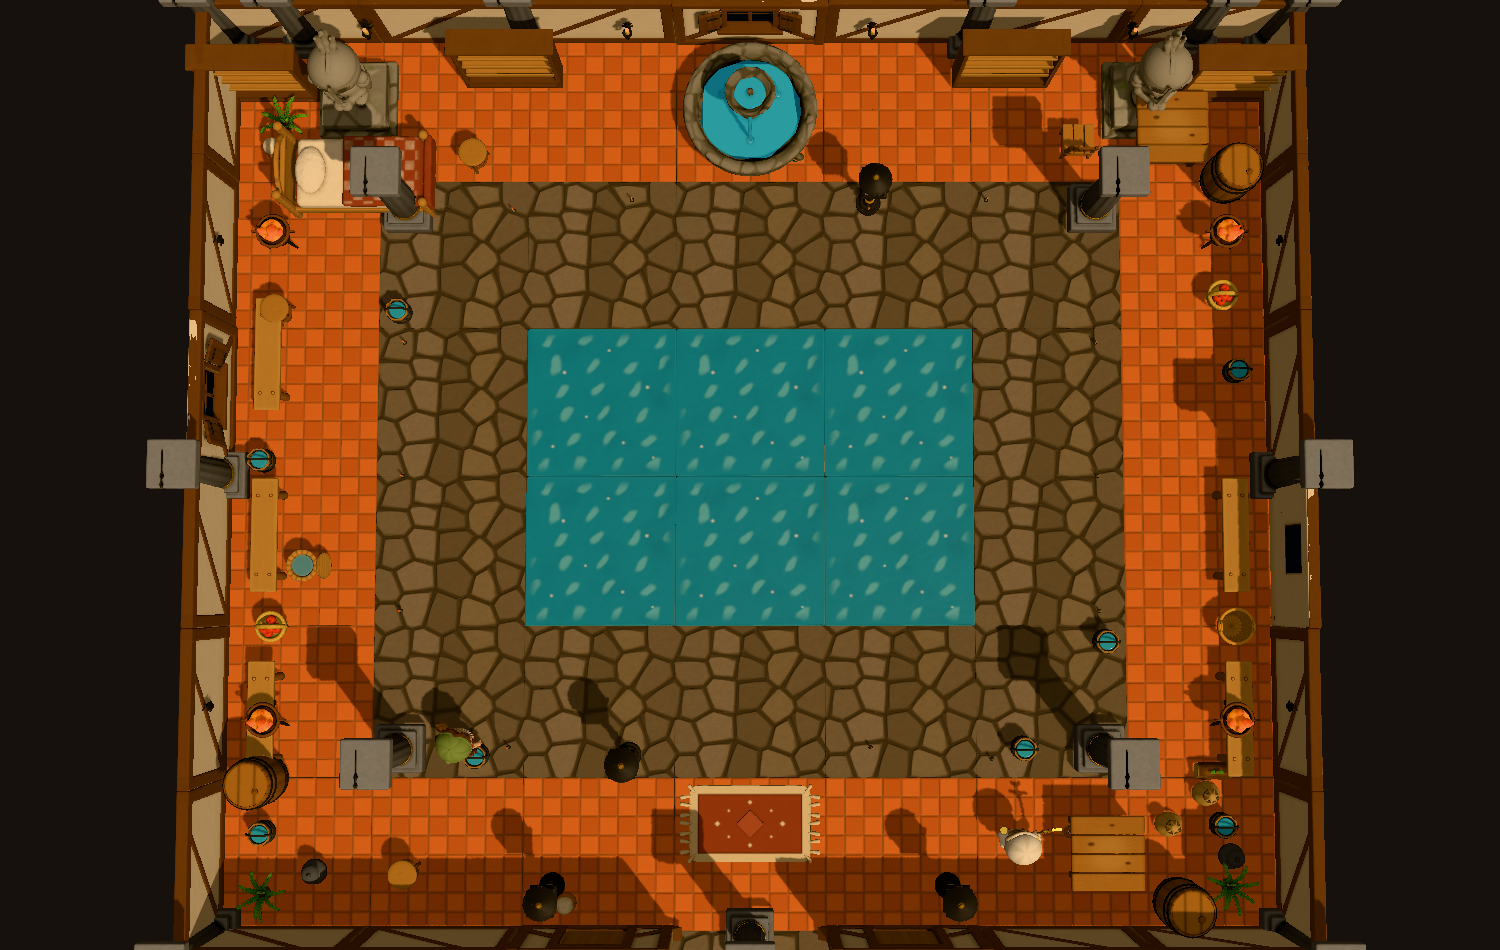
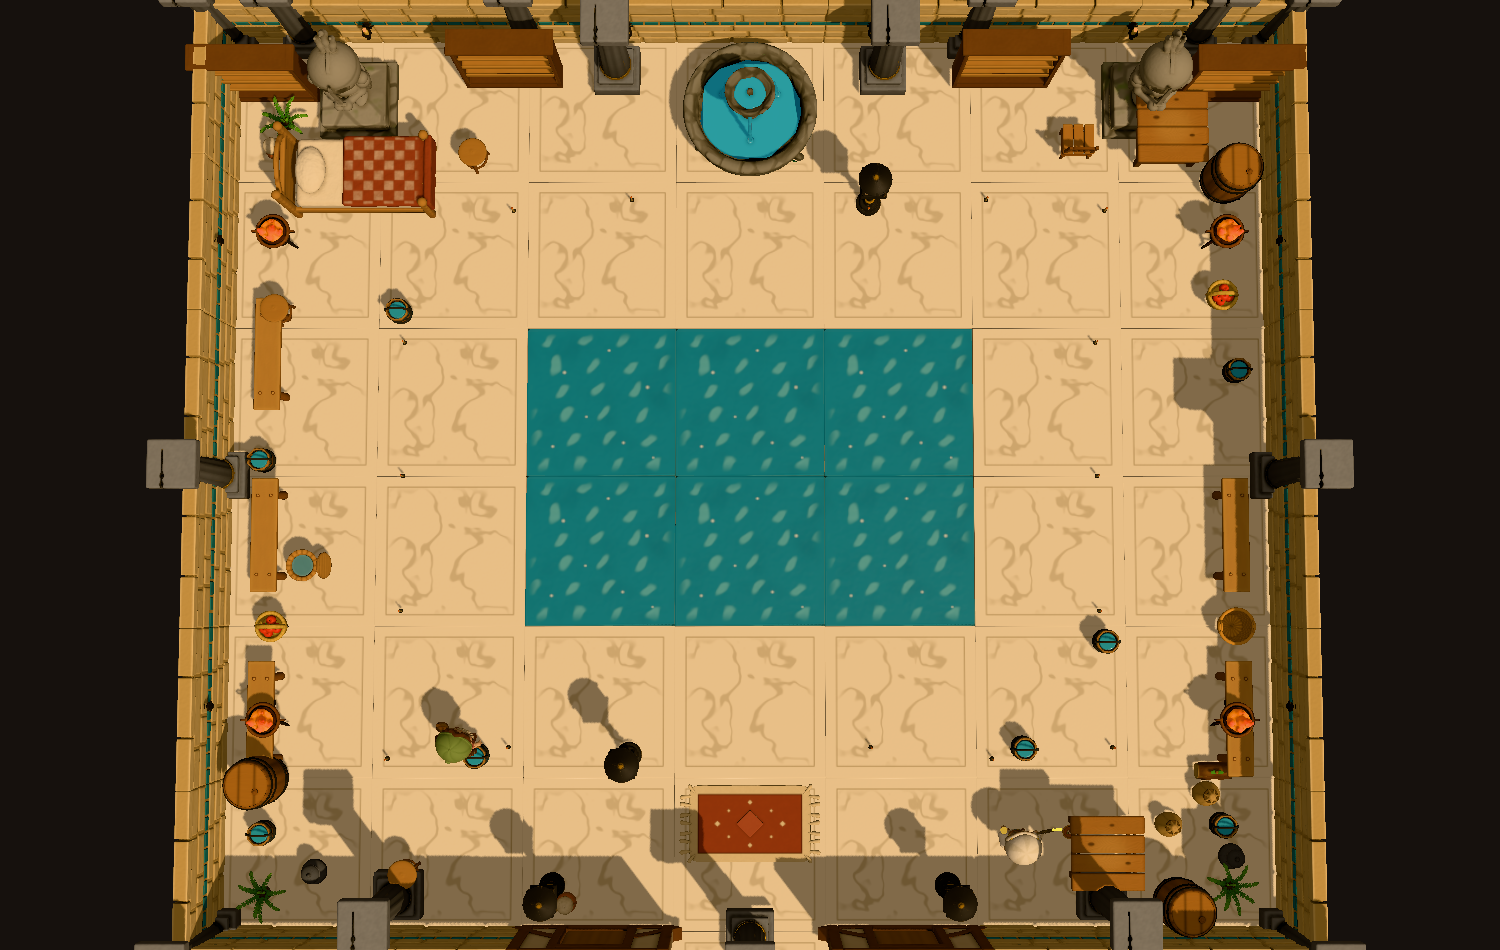
feat(maps): bathhouse map at 7.0 with sandstone-wall and marble-floor

diff --git a/scenes/maps/bathhouse.ts b/scenes/maps/bathhouse.ts
@@ -2,74 +2,74 @@
 import type { Place } from '../chibi-quest.js';
 export function places(): Place[] {
   return [
-  { asset: 'tile-floor', at: [-6, 0, -5] },
-  { asset: 'tile-floor', at: [-6, 0, -3] },
-  { asset: 'tile-floor', at: [-6, 0, -1] },
-  { asset: 'tile-floor', at: [-6, 0, 1] },
-  { asset: 'tile-floor', at: [-6, 0, 3] },
-  { asset: 'tile-floor', at: [-6, 0, 5] },
-  { asset: 'tile-floor', at: [-4, 0, -5] },
-  { asset: 'stone-floor', at: [-4, 0, -3] },
-  { asset: 'stone-floor', at: [-4, 0, -1] },
-  { asset: 'stone-floor', at: [-4, 0, 1] },
-  { asset: 'stone-floor', at: [-4, 0, 3] },
-  { asset: 'tile-floor', at: [-4, 0, 5] },
-  { asset: 'tile-floor', at: [-2, 0, -5] },
-  { asset: 'stone-floor', at: [-2, 0, -3] },
+  { asset: 'marble-floor', at: [-6, 0, -5] },
+  { asset: 'marble-floor', at: [-6, 0, -3] },
+  { asset: 'marble-floor', at: [-6, 0, -1] },
+  { asset: 'marble-floor', at: [-6, 0, 1] },
+  { asset: 'marble-floor', at: [-6, 0, 3] },
+  { asset: 'marble-floor', at: [-6, 0, 5] },
+  { asset: 'marble-floor', at: [-4, 0, -5] },
+  { asset: 'marble-floor', at: [-4, 0, -3] },
+  { asset: 'marble-floor', at: [-4, 0, -1] },
+  { asset: 'marble-floor', at: [-4, 0, 1] },
+  { asset: 'marble-floor', at: [-4, 0, 3] },
+  { asset: 'marble-floor', at: [-4, 0, 5] },
+  { asset: 'marble-floor', at: [-2, 0, -5] },
+  { asset: 'marble-floor', at: [-2, 0, -3] },
   { asset: 'sea-water', at: [-2, 0, -1] },
   { asset: 'sea-water', at: [-2, 0, 1] },
-  { asset: 'stone-floor', at: [-2, 0, 3] },
-  { asset: 'tile-floor', at: [-2, 0, 5] },
-  { asset: 'tile-floor', at: [0, 0, -5] },
-  { asset: 'stone-floor', at: [0, 0, -3] },
+  { asset: 'marble-floor', at: [-2, 0, 3] },
+  { asset: 'marble-floor', at: [-2, 0, 5] },
+  { asset: 'marble-floor', at: [0, 0, -5] },
+  { asset: 'marble-floor', at: [0, 0, -3] },
   { asset: 'sea-water', at: [0, 0, -1] },
   { asset: 'sea-water', at: [0, 0, 1] },
-  { asset: 'stone-floor', at: [0, 0, 3] },
-  { asset: 'tile-floor', at: [0, 0, 5] },
-  { asset: 'tile-floor', at: [2, 0, -5] },
-  { asset: 'stone-floor', at: [2, 0, -3] },
+  { asset: 'marble-floor', at: [0, 0, 3] },
+  { asset: 'marble-floor', at: [0, 0, 5] },
+  { asset: 'marble-floor', at: [2, 0, -5] },
+  { asset: 'marble-floor', at: [2, 0, -3] },
   { asset: 'sea-water', at: [2, 0, -1] },
   { asset: 'sea-water', at: [2, 0, 1] },
-  { asset: 'stone-floor', at: [2, 0, 3] },
-  { asset: 'tile-floor', at: [2, 0, 5] },
-  { asset: 'tile-floor', at: [4, 0, -5] },
-  { asset: 'stone-floor', at: [4, 0, -3] },
-  { asset: 'stone-floor', at: [4, 0, -1] },
-  { asset: 'stone-floor', at: [4, 0, 1] },
-  { asset: 'stone-floor', at: [4, 0, 3] },
-  { asset: 'tile-floor', at: [4, 0, 5] },
-  { asset: 'tile-floor', at: [6, 0, -5] },
-  { asset: 'tile-floor', at: [6, 0, -3] },
-  { asset: 'tile-floor', at: [6, 0, -1] },
-  { asset: 'tile-floor', at: [6, 0, 1] },
-  { asset: 'tile-floor', at: [6, 0, 3] },
-  { asset: 'tile-floor', at: [6, 0, 5] },
-  { asset: 'stone-floor', at: [-2, 0, 7] },
-  { asset: 'stone-floor', at: [0, 0, 7] },
-  { asset: 'stone-floor', at: [2, 0, 7] },
-  { asset: 'plaster-wall', at: [-6, 0, -6] },
-  { asset: 'plaster-wall', at: [-4, 0, -6] },
-  { asset: 'plaster-wall', at: [-2, 0, -6] },
-  { asset: 'plaster-wall-window', at: [0, 0, -6] },
-  { asset: 'plaster-wall', at: [2, 0, -6] },
-  { asset: 'plaster-wall', at: [4, 0, -6] },
-  { asset: 'plaster-wall', at: [6, 0, -6] },
-  { asset: 'plaster-wall', at: [-7, 0, -5], yaw: 90 },
-  { asset: 'plaster-wall', at: [7, 0, -5], yaw: 90 },
-  { asset: 'plaster-wall', at: [-7, 0, -3], yaw: 90 },
-  { asset: 'plaster-wall', at: [7, 0, -3], yaw: 90 },
-  { asset: 'plaster-wall-window', at: [-7, 0, -1], yaw: 90 },
-  { asset: 'plaster-wall', at: [7, 0, -1], yaw: 90 },
-  { asset: 'plaster-wall', at: [-7, 0, 1], yaw: 90 },
-  { asset: 'plaster-wall-window', at: [7, 0, 1], yaw: 90 },
-  { asset: 'plaster-wall', at: [-7, 0, 3], yaw: 90 },
-  { asset: 'plaster-wall', at: [7, 0, 3], yaw: 90 },
-  { asset: 'plaster-wall', at: [-7, 0, 5], yaw: 90 },
-  { asset: 'plaster-wall', at: [7, 0, 5], yaw: 90 },
-  { asset: 'plaster-wall', at: [-6, 0, 6] },
-  { asset: 'plaster-wall', at: [-4, 0, 6] },
-  { asset: 'plaster-wall', at: [4, 0, 6] },
-  { asset: 'plaster-wall', at: [6, 0, 6] },
+  { asset: 'marble-floor', at: [2, 0, 3] },
+  { asset: 'marble-floor', at: [2, 0, 5] },
+  { asset: 'marble-floor', at: [4, 0, -5] },
+  { asset: 'marble-floor', at: [4, 0, -3] },
+  { asset: 'marble-floor', at: [4, 0, -1] },
+  { asset: 'marble-floor', at: [4, 0, 1] },
+  { asset: 'marble-floor', at: [4, 0, 3] },
+  { asset: 'marble-floor', at: [4, 0, 5] },
+  { asset: 'marble-floor', at: [6, 0, -5] },
+  { asset: 'marble-floor', at: [6, 0, -3] },
+  { asset: 'marble-floor', at: [6, 0, -1] },
+  { asset: 'marble-floor', at: [6, 0, 1] },
+  { asset: 'marble-floor', at: [6, 0, 3] },
+  { asset: 'marble-floor', at: [6, 0, 5] },
+  { asset: 'marble-floor', at: [-2, 0, 7] },
+  { asset: 'marble-floor', at: [0, 0, 7] },
+  { asset: 'marble-floor', at: [2, 0, 7] },
+  { asset: 'sandstone-wall', at: [-6, 0, -6] },
+  { asset: 'sandstone-wall', at: [-4, 0, -6] },
+  { asset: 'sandstone-wall', at: [-2, 0, -6] },
+  { asset: 'sandstone-wall', at: [0, 0, -6] },
+  { asset: 'sandstone-wall', at: [2, 0, -6] },
+  { asset: 'sandstone-wall', at: [4, 0, -6] },
+  { asset: 'sandstone-wall', at: [6, 0, -6] },
+  { asset: 'sandstone-wall', at: [-7, 0, -5], yaw: 90 },
+  { asset: 'sandstone-wall', at: [7, 0, -5], yaw: 90 },
+  { asset: 'sandstone-wall', at: [-7, 0, -3], yaw: 90 },
+  { asset: 'sandstone-wall', at: [7, 0, -3], yaw: 90 },
+  { asset: 'sandstone-wall', at: [-7, 0, -1], yaw: 90 },
+  { asset: 'sandstone-wall', at: [7, 0, -1], yaw: 90 },
+  { asset: 'sandstone-wall', at: [-7, 0, 1], yaw: 90 },
+  { asset: 'sandstone-wall', at: [7, 0, 1], yaw: 90 },
+  { asset: 'sandstone-wall', at: [-7, 0, 3], yaw: 90 },
+  { asset: 'sandstone-wall', at: [7, 0, 3], yaw: 90 },
+  { asset: 'sandstone-wall', at: [-7, 0, 5], yaw: 90 },
+  { asset: 'sandstone-wall', at: [7, 0, 5], yaw: 90 },
+  { asset: 'sandstone-wall', at: [-6, 0, 6] },
+  { asset: 'sandstone-wall', at: [-4, 0, 6] },
+  { asset: 'sandstone-wall', at: [4, 0, 6] },
+  { asset: 'sandstone-wall', at: [6, 0, 6] },
   { asset: 'plaster-wall-door', at: [-2, 0, 6] },
   { asset: 'plaster-wall-door', at: [2, 0, 6] },
   { asset: 'column', at: [-7, 0, -6] },
@@ -83,10 +83,10 @@ export function places(): Place[] {
   { asset: 'column', at: [7, 0, 0] },
   { asset: 'column', at: [-3, 0, -6] },
   { asset: 'column', at: [3, 0, -6] },
-  { asset: 'column', at: [-4.6, 0, -3.6] },
-  { asset: 'column', at: [4.6, 0, -3.6] },
-  { asset: 'column', at: [-4.6, 0, 3.6] },
-  { asset: 'column', at: [4.6, 0, 3.6] },
+  { asset: 'column', at: [-1.8, 0, -5.5] },
+  { asset: 'column', at: [1.8, 0, -5.5] },
+  { asset: 'column', at: [-4.6, 0, 5.5] },
+  { asset: 'column', at: [4.6, 0, 5.5] },
   { asset: 'fountain', at: [0, 0, -4.9] },
   { asset: 'statue', at: [-5.3, 0, -5.1] },
   { asset: 'statue', at: [5.3, 0, -5.1] },

diff --git a/docs/map-mockups/bathhouse.md b/docs/map-mockups/bathhouse.md
@@ -23,19 +23,17 @@ Path: south door, rug, around the pool rim. Pieces: 169.
 | healer | 1 |
 | jar | 2 |
 | lantern | 4 |
-| plaster-wall | 20 |
+| marble-floor | 39 |
 | plaster-wall-door | 2 |
-| plaster-wall-window | 3 |
 | quench-tub | 1 |
 | rug | 2 |
 | sack | 2 |
+| sandstone-wall | 23 |
 | sea-water | 6 |
 | shelf | 4 |
 | statue | 2 |
-| stone-floor | 17 |
 | stool | 3 |
 | table | 2 |
-| tile-floor | 22 |
 | urn | 2 |
 | villager | 1 |
 | wall-sconce | 8 |
